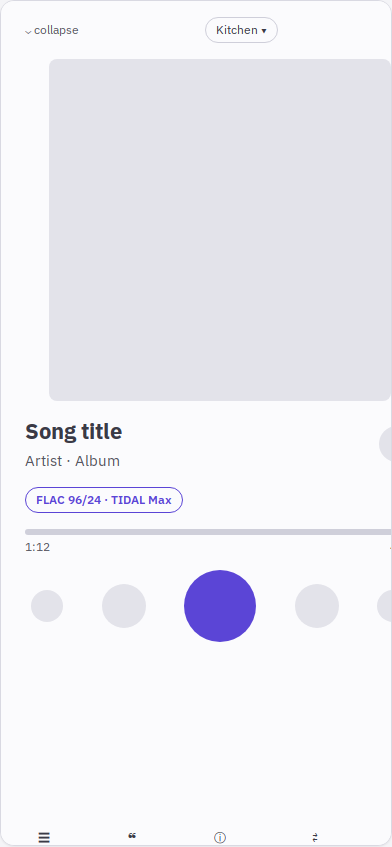
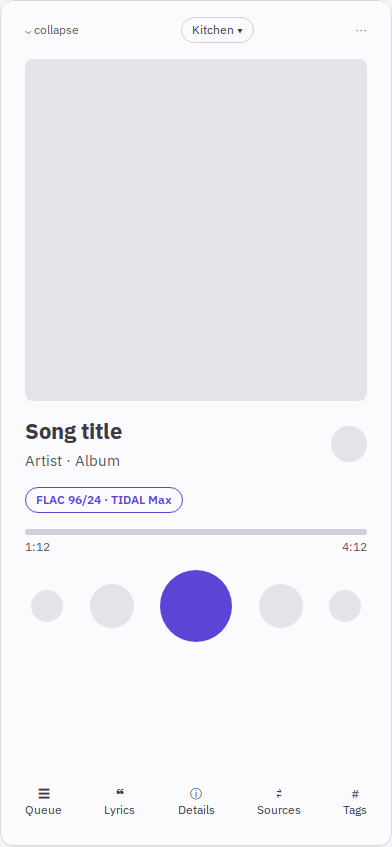
Design note: colour from where it plays, three sources, contrast-checked (STEWARD-UX-RESPONSIVE.md §6); phone frames no longer clipped

diff --git a/docs/ux/responsive/note.html b/docs/ux/responsive/note.html
@@ -7,17 +7,23 @@
   --bg: #f4f4f7; --surface: #ffffff; --fg: #17171c; --muted: #5f5f6b; --line: #d9d9e2;
   --accent: #5b45d6; --accent-soft: #ebe8fb;
   --wf-bg: #fbfbfd; --wf-box: #e3e3ea; --wf-box2: #cfcfda; --wf-ink: #3a3a46; --wf-accent: #5b45d6;
+  /* Source accents, contrast-checked: text on the background >= 4.5:1, the button's ink on the accent >= 4.5:1 */
+  --spotify: #13803B; --spotify-ink: #ffffff; --tidal: #007C89; --tidal-ink: #ffffff; --qobuz: #1F5BD6; --qobuz-ink: #ffffff;
   --sans: "IBM Plex Sans", "Helvetica Neue", Arial, sans-serif;
   --mono: "IBM Plex Mono", ui-monospace, Menlo, monospace;
 }
 @media (prefers-color-scheme: dark) { :root:not([data-theme="light"]) {
   --bg: #111116; --surface: #1a1a21; --fg: #ececf2; --muted: #a2a2b0; --line: #2e2e39;
   --accent: #a596ff; --accent-soft: #2a2545;
-  --wf-bg: #1d1d25; --wf-box: #2c2c37; --wf-box2: #3a3a48; --wf-ink: #d4d4de; --wf-accent: #a596ff; color-scheme: dark } }
+  --wf-bg: #1d1d25; --wf-box: #2c2c37; --wf-box2: #3a3a48; --wf-ink: #d4d4de; --wf-accent: #a596ff;
+  --spotify: #1ED760; --spotify-ink: #111116; --tidal: #33E8E0; --tidal-ink: #111116; --qobuz: #6E9BFF; --qobuz-ink: #111116;
+  color-scheme: dark } }
 :root[data-theme="dark"] {
   --bg: #111116; --surface: #1a1a21; --fg: #ececf2; --muted: #a2a2b0; --line: #2e2e39;
   --accent: #a596ff; --accent-soft: #2a2545;
-  --wf-bg: #1d1d25; --wf-box: #2c2c37; --wf-box2: #3a3a48; --wf-ink: #d4d4de; --wf-accent: #a596ff; color-scheme: dark }
+  --wf-bg: #1d1d25; --wf-box: #2c2c37; --wf-box2: #3a3a48; --wf-ink: #d4d4de; --wf-accent: #a596ff;
+  --spotify: #1ED760; --spotify-ink: #111116; --tidal: #33E8E0; --tidal-ink: #111116; --qobuz: #6E9BFF; --qobuz-ink: #111116;
+  color-scheme: dark }
 body { background: var(--bg); color: var(--fg); font-family: var(--sans); font-size: 16px; line-height: 1.55;
   padding-left: max(16px, env(safe-area-inset-left, 0px)); padding-right: max(16px, env(safe-area-inset-right, 0px)); padding-block: 0 64px; }
 .col { max-width: 72ch; margin-inline: auto; }
@@ -44,7 +50,7 @@ figure { margin: 0; display: flex; flex-direction: column; gap: 8px; min-width: 
 figcaption { font-size: 13px; color: var(--muted); max-width: 46ch; }
 figcaption b { color: var(--fg); font-weight: 600; }
 .wf { position: relative; overflow: hidden; border: 1px solid var(--line); border-radius: 14px; background: var(--wf-bg); box-shadow: 0 1px 2px rgba(0,0,0,.06); max-width: 100%; }
-.screen { position: absolute; left: 0; top: 0; transform-origin: top left; color: var(--wf-ink); font-family: var(--sans); font-size: 14px; line-height: 1.3; background: var(--wf-bg); }
+.screen { box-sizing: border-box; position: absolute; left: 0; top: 0; transform-origin: top left; color: var(--wf-ink); font-family: var(--sans); font-size: 14px; line-height: 1.3; background: var(--wf-bg); }
 .screen * { box-sizing: border-box; }
 .b { background: var(--wf-box); border-radius: 8px; }
 .b2 { background: var(--wf-box2); border-radius: 8px; }
@@ -58,6 +64,15 @@ figcaption b { color: var(--fg); font-weight: 600; }
 .row { display: flex; align-items: center; gap: 10px; }
 .col2 { display: flex; flex-direction: column; gap: 8px; }
 .note { position: absolute; font-family: var(--mono); font-size: 11px; background: var(--wf-accent); color: #fff; padding: 2px 6px; border-radius: 4px; }
+/* Source-aware colour on the player: one accent per source, a soft gradient from the cover */
+.src-spotify { --src: var(--spotify); --src-ink: var(--spotify-ink); }
+.src-tidal { --src: var(--tidal); --src-ink: var(--tidal-ink); }
+.src-qobuz { --src: var(--qobuz); --src-ink: var(--qobuz-ink); }
+.np-src { background: linear-gradient(180deg, color-mix(in srgb, var(--art) 38%, var(--wf-bg)) 0%, var(--wf-bg) 72%); }
+.np-src .qlabel { border: 1.5px solid var(--src); color: var(--src); font-weight: 600; }
+.np-src .play { background: var(--src); color: var(--src-ink); display: flex; align-items: center; justify-content: center; font-size: 26px; }
+.np-src .fill { background: var(--src); }
+.np-src .mark { width: 10px; height: 10px; border-radius: 3px; background: var(--src); display: inline-block; }
 @media (prefers-reduced-motion: reduce) { * { transition: none !important; } }
 </style>
 
@@ -254,6 +269,50 @@ figcaption b { color: var(--fg); font-weight: 600; }
   </div>
 </section>
 
+<section class="wide">
+  <h2>Colour from where it plays</h2>
+  <p style="max-width:72ch">While a song plays, the player takes an accent from where it streams: the quality label, the scrubber, the source chip and the play button. Now playing also gets a soft gradient from the cover. Local files and your homeserver keep our own accent. A tint only: no logos beyond the small source mark, no copied layouts or fonts. Lists and the rest of the app keep their own theme, so nothing else changes colour from song to song.</p>
+  <div class="figrow">
+    <figure>
+      <div class="wf" data-w="390" data-h="844" data-s=".5"><div class="screen np-src src-spotify" style="--art:#c8663b;width:390px;height:844px;padding:16px 24px 28px;display:flex;flex-direction:column;gap:16px">
+        <div class="row" style="justify-content:space-between"><span class="lab">⌄ collapse</span><span class="pill">Kitchen ▾</span><span class="lab">⋯</span></div>
+        <div style="width:342px;height:342px;margin-inline:auto;border-radius:10px;background:#c8663b"></div>
+        <div class="row" style="justify-content:space-between"><div class="col2" style="gap:6px"><b style="font-size:22px">Song title</b><span class="lab" style="font-size:15px">Artist · Album</span></div><div class="b circ" style="width:36px;height:36px"></div></div>
+        <div class="row" style="gap:8px"><span class="pill qlabel">OGG 320 kbps</span><span class="pill" style="display:inline-flex;align-items:center;gap:6px"><span class="mark"></span>Spotify</span></div>
+        <div class="col2" style="gap:4px"><div class="ln" style="width:100%;height:6px;position:relative;overflow:hidden"><div class="fill" style="position:absolute;inset:0 62% 0 0"></div></div><div class="row lab" style="justify-content:space-between"><span>1:32</span><span>4:12</span></div></div>
+        <div class="row" style="justify-content:space-between;padding:0 6px"><div class="b circ" style="width:32px;height:32px"></div><div class="b circ" style="width:44px;height:44px"></div><div class="circ play" style="width:72px;height:72px">❚❚</div><div class="b circ" style="width:44px;height:44px"></div><div class="b circ" style="width:32px;height:32px"></div></div>
+        <div class="row" style="justify-content:space-between;margin-top:auto;font-size:12px;text-align:center"><span>☰<br>Queue</span><span>❝<br>Lyrics</span><span>ⓘ<br>Details</span><span>⇄<br>Sources</span><span>#<br>Tags</span></div>
+      </div></div>
+      <figcaption><b>Spotify.</b> The Spotify accent on the quality label, the scrubber, the source chip and play; the background from this cover.</figcaption>
+    </figure>
+    <figure>
+      <div class="wf" data-w="390" data-h="844" data-s=".5"><div class="screen np-src src-tidal" style="--art:#2b4a8a;width:390px;height:844px;padding:16px 24px 28px;display:flex;flex-direction:column;gap:16px">
+        <div class="row" style="justify-content:space-between"><span class="lab">⌄ collapse</span><span class="pill">Kitchen ▾</span><span class="lab">⋯</span></div>
+        <div style="width:342px;height:342px;margin-inline:auto;border-radius:10px;background:#2b4a8a"></div>
+        <div class="row" style="justify-content:space-between"><div class="col2" style="gap:6px"><b style="font-size:22px">Song title</b><span class="lab" style="font-size:15px">Artist · Album</span></div><div class="b circ" style="width:36px;height:36px"></div></div>
+        <div class="row" style="gap:8px"><span class="pill qlabel">FLAC 96/24 · Max</span><span class="pill" style="display:inline-flex;align-items:center;gap:6px"><span class="mark"></span>TIDAL</span></div>
+        <div class="col2" style="gap:4px"><div class="ln" style="width:100%;height:6px;position:relative;overflow:hidden"><div class="fill" style="position:absolute;inset:0 62% 0 0"></div></div><div class="row lab" style="justify-content:space-between"><span>1:32</span><span>4:12</span></div></div>
+        <div class="row" style="justify-content:space-between;padding:0 6px"><div class="b circ" style="width:32px;height:32px"></div><div class="b circ" style="width:44px;height:44px"></div><div class="circ play" style="width:72px;height:72px">❚❚</div><div class="b circ" style="width:44px;height:44px"></div><div class="b circ" style="width:32px;height:32px"></div></div>
+        <div class="row" style="justify-content:space-between;margin-top:auto;font-size:12px;text-align:center"><span>☰<br>Queue</span><span>❝<br>Lyrics</span><span>ⓘ<br>Details</span><span>⇄<br>Sources</span><span>#<br>Tags</span></div>
+      </div></div>
+      <figcaption><b>TIDAL.</b> The TIDAL accent on the quality label, the scrubber, the source chip and play; the background from this cover.</figcaption>
+    </figure>
+    <figure>
+      <div class="wf" data-w="390" data-h="844" data-s=".5"><div class="screen np-src src-qobuz" style="--art:#2f6f5e;width:390px;height:844px;padding:16px 24px 28px;display:flex;flex-direction:column;gap:16px">
+        <div class="row" style="justify-content:space-between"><span class="lab">⌄ collapse</span><span class="pill">Kitchen ▾</span><span class="lab">⋯</span></div>
+        <div style="width:342px;height:342px;margin-inline:auto;border-radius:10px;background:#2f6f5e"></div>
+        <div class="row" style="justify-content:space-between"><div class="col2" style="gap:6px"><b style="font-size:22px">Song title</b><span class="lab" style="font-size:15px">Artist · Album</span></div><div class="b circ" style="width:36px;height:36px"></div></div>
+        <div class="row" style="gap:8px"><span class="pill qlabel">FLAC 192/24</span><span class="pill" style="display:inline-flex;align-items:center;gap:6px"><span class="mark"></span>Qobuz</span></div>
+        <div class="col2" style="gap:4px"><div class="ln" style="width:100%;height:6px;position:relative;overflow:hidden"><div class="fill" style="position:absolute;inset:0 62% 0 0"></div></div><div class="row lab" style="justify-content:space-between"><span>1:32</span><span>4:12</span></div></div>
+        <div class="row" style="justify-content:space-between;padding:0 6px"><div class="b circ" style="width:32px;height:32px"></div><div class="b circ" style="width:44px;height:44px"></div><div class="circ play" style="width:72px;height:72px">❚❚</div><div class="b circ" style="width:44px;height:44px"></div><div class="b circ" style="width:32px;height:32px"></div></div>
+        <div class="row" style="justify-content:space-between;margin-top:auto;font-size:12px;text-align:center"><span>☰<br>Queue</span><span>❝<br>Lyrics</span><span>ⓘ<br>Details</span><span>⇄<br>Sources</span><span>#<br>Tags</span></div>
+      </div></div>
+      <figcaption><b>Qobuz.</b> The Qobuz accent on the quality label, the scrubber, the source chip and play; the background from this cover.</figcaption>
+    </figure>
+  </div>
+  <p style="max-width:72ch" class="lab">Each accent is checked in both themes and nudged where it fails: text on the background at least 4.5:1, and the play button's ink on the accent at least 4.5:1. On dark, bright accents (Spotify's green, TIDAL's cyan) take dark ink; white on them would fail. Switch the theme to see both. Settings › Appearance: <b>Colour from source</b> (on), <b>Colour from album art</b> (on), or neither. With reduced motion the colour changes without a fade.</p>
+</section>
+
 <section class="col">
   <h2>Layout, per person</h2>
   <p><b>Settings › Home and layout:</b> Layout <i>Automatic</i> (by width, as above), <i>Compact</i> (phone arrangement at any width), or <i>Comfortable</i> (tablet arrangement on a desktop); <i>Dense lists</i> on tablets and desktops; Home rows to show and their order. With per-person libraries (STEWARD-MULTI-USER.md) these are saved on each person's homeserver, so they follow you to every device.</p>
@@ -276,10 +335,9 @@ figcaption b { color: var(--fg); font-weight: 600; }
   <p>Each step: screenshots at 390, 820 and 1440 px in light and dark, before and after; the overlap, accessibility and click-every-button checks at all three widths.</p>
 
   <div class="ask">
-    <b>Four things to decide</b>
+    <b>Three things to decide</b>
     <ol>
       <li><b>The fourth tab:</b> Zones (where it plays, as drawn), or Queue (then Zones moves into the player's zone pill only)?</li>
-      <li><b>Now playing's background:</b> a soft colour taken from the cover (Apple Music, Spotify), or the plain theme background?</li>
       <li><b>Swipe gestures on rows:</b> swipe right for Play next and left for Add to playlist, as drawn, or long-press only?</li>
       <li><b>Lyrics:</b> in place of the art (Apple Music) or in the sheet with the others (as drawn)?</li>
     </ol>

diff --git a/docs/ux/responsive.md b/docs/ux/responsive.md
@@ -29,6 +29,26 @@ A rail instead of tabs. Now playing in two columns: the player left, the sheet a
 - **Arrangement:** a sidebar (with a "Shared with you" group), dense lists with columns (title, artist, quality, time), the queue/lyrics/details panel docked right, and the player bar along the bottom.
 - **Now playing:** a full view with the panel beside the art.
 
+## Colour from where it plays (§6)
+| Spotify | TIDAL | Qobuz |
+| :-: | :-: | :-: |
+| ![](responsive/colour-spotify.png) | ![](responsive/colour-tidal.png) | ![](responsive/colour-qobuz.png) |
+
+- **The accent:** while a song plays, the player surfaces take one accent from where it streams: the quality label, the scrubber, the source chip and the play button. Local files and the homeserver keep ours.
+- **The cover:** Now playing gets a soft gradient from it.
+- **A tint only:** no logos beyond the small source mark, no copied layouts or fonts. Lists keep the app's own theme.
+- **Contrast:** each accent is checked in both themes and nudged where it fails: text on the background at least 4.5:1, the button's ink on the accent at least 4.5:1.
+
+  | Source | Light | Dark | Dark ink |
+  | :-- | :-- | :-- | :-- |
+  | Spotify | `#13803B` | `#1ED760` | yes |
+  | TIDAL | `#007C89` | `#33E8E0` | yes |
+  | Qobuz | `#1F5BD6` | `#6E9BFF` | yes |
+  | ours | `#5b45d6` | `#a596ff` | yes |
+
+  Each source declares its accent next to its features when this is built.
+- **Settings › Appearance:** Colour from source (on), Colour from album art (on), or neither. With reduced motion the colour switches without a fade.
+
 ## Layout option
 Settings › Home and layout:
 - **Layout:** Automatic, Compact or Comfortable.
@@ -39,9 +59,8 @@ Per person, saved on their homeserver (STEWARD-MULTI-USER.md).
 
 ## Decisions for the owner
 1. **The fourth tab:** Zones (drawn), or Queue?
-2. **Now playing's background:** a colour from the cover, or plain?
-3. **Swipe gestures on rows,** or long-press only?
-4. **Lyrics:** in place of the art, or in the sheet (drawn)?
+2. **Swipe gestures on rows,** or long-press only?
+3. **Lyrics:** in place of the art, or in the sheet (drawn)?
 
 ## Build order after the look
 Each step is one PR:
